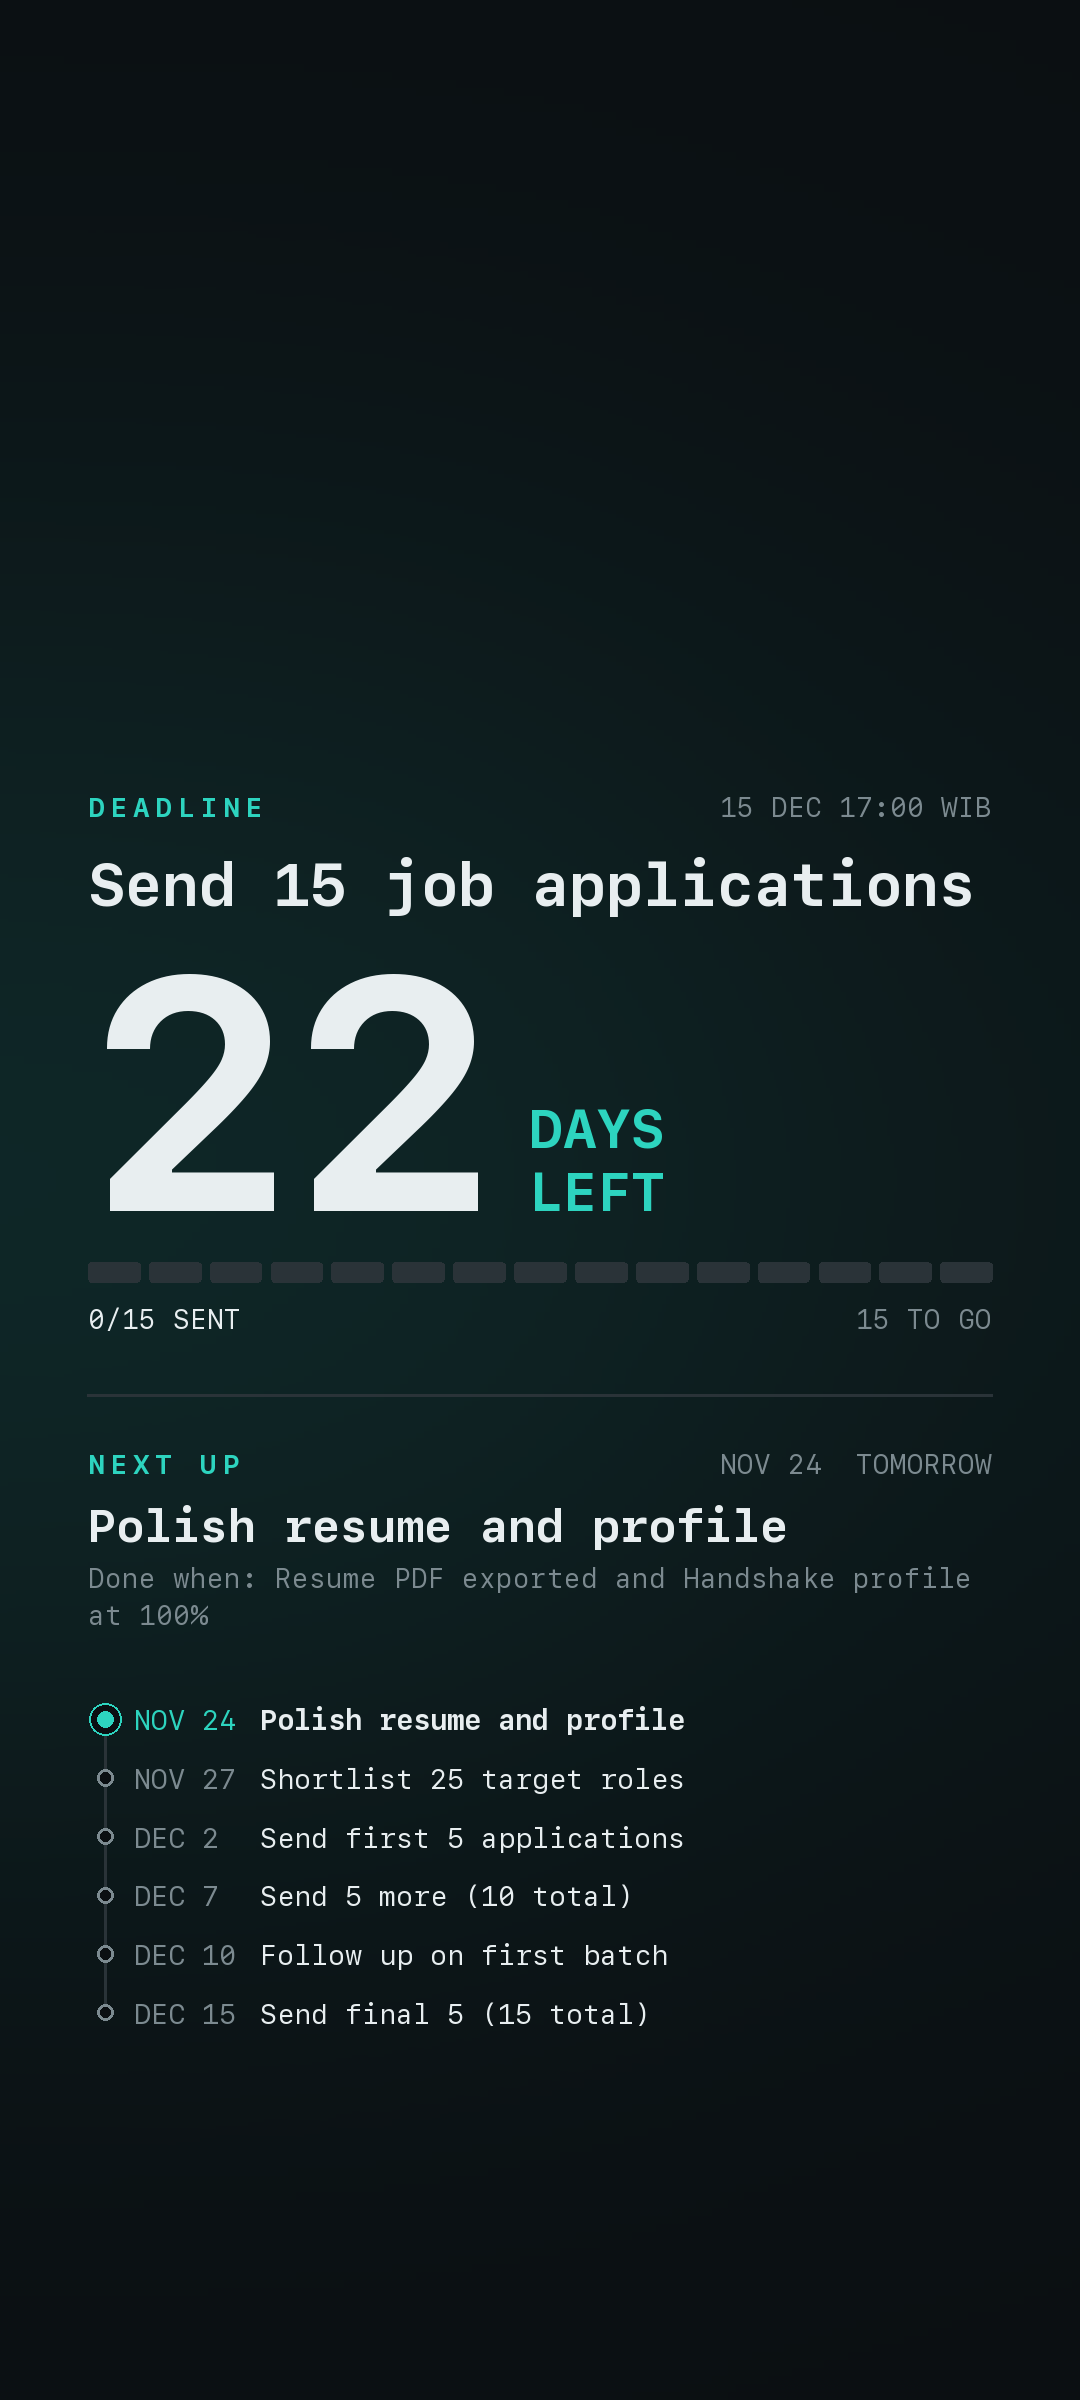
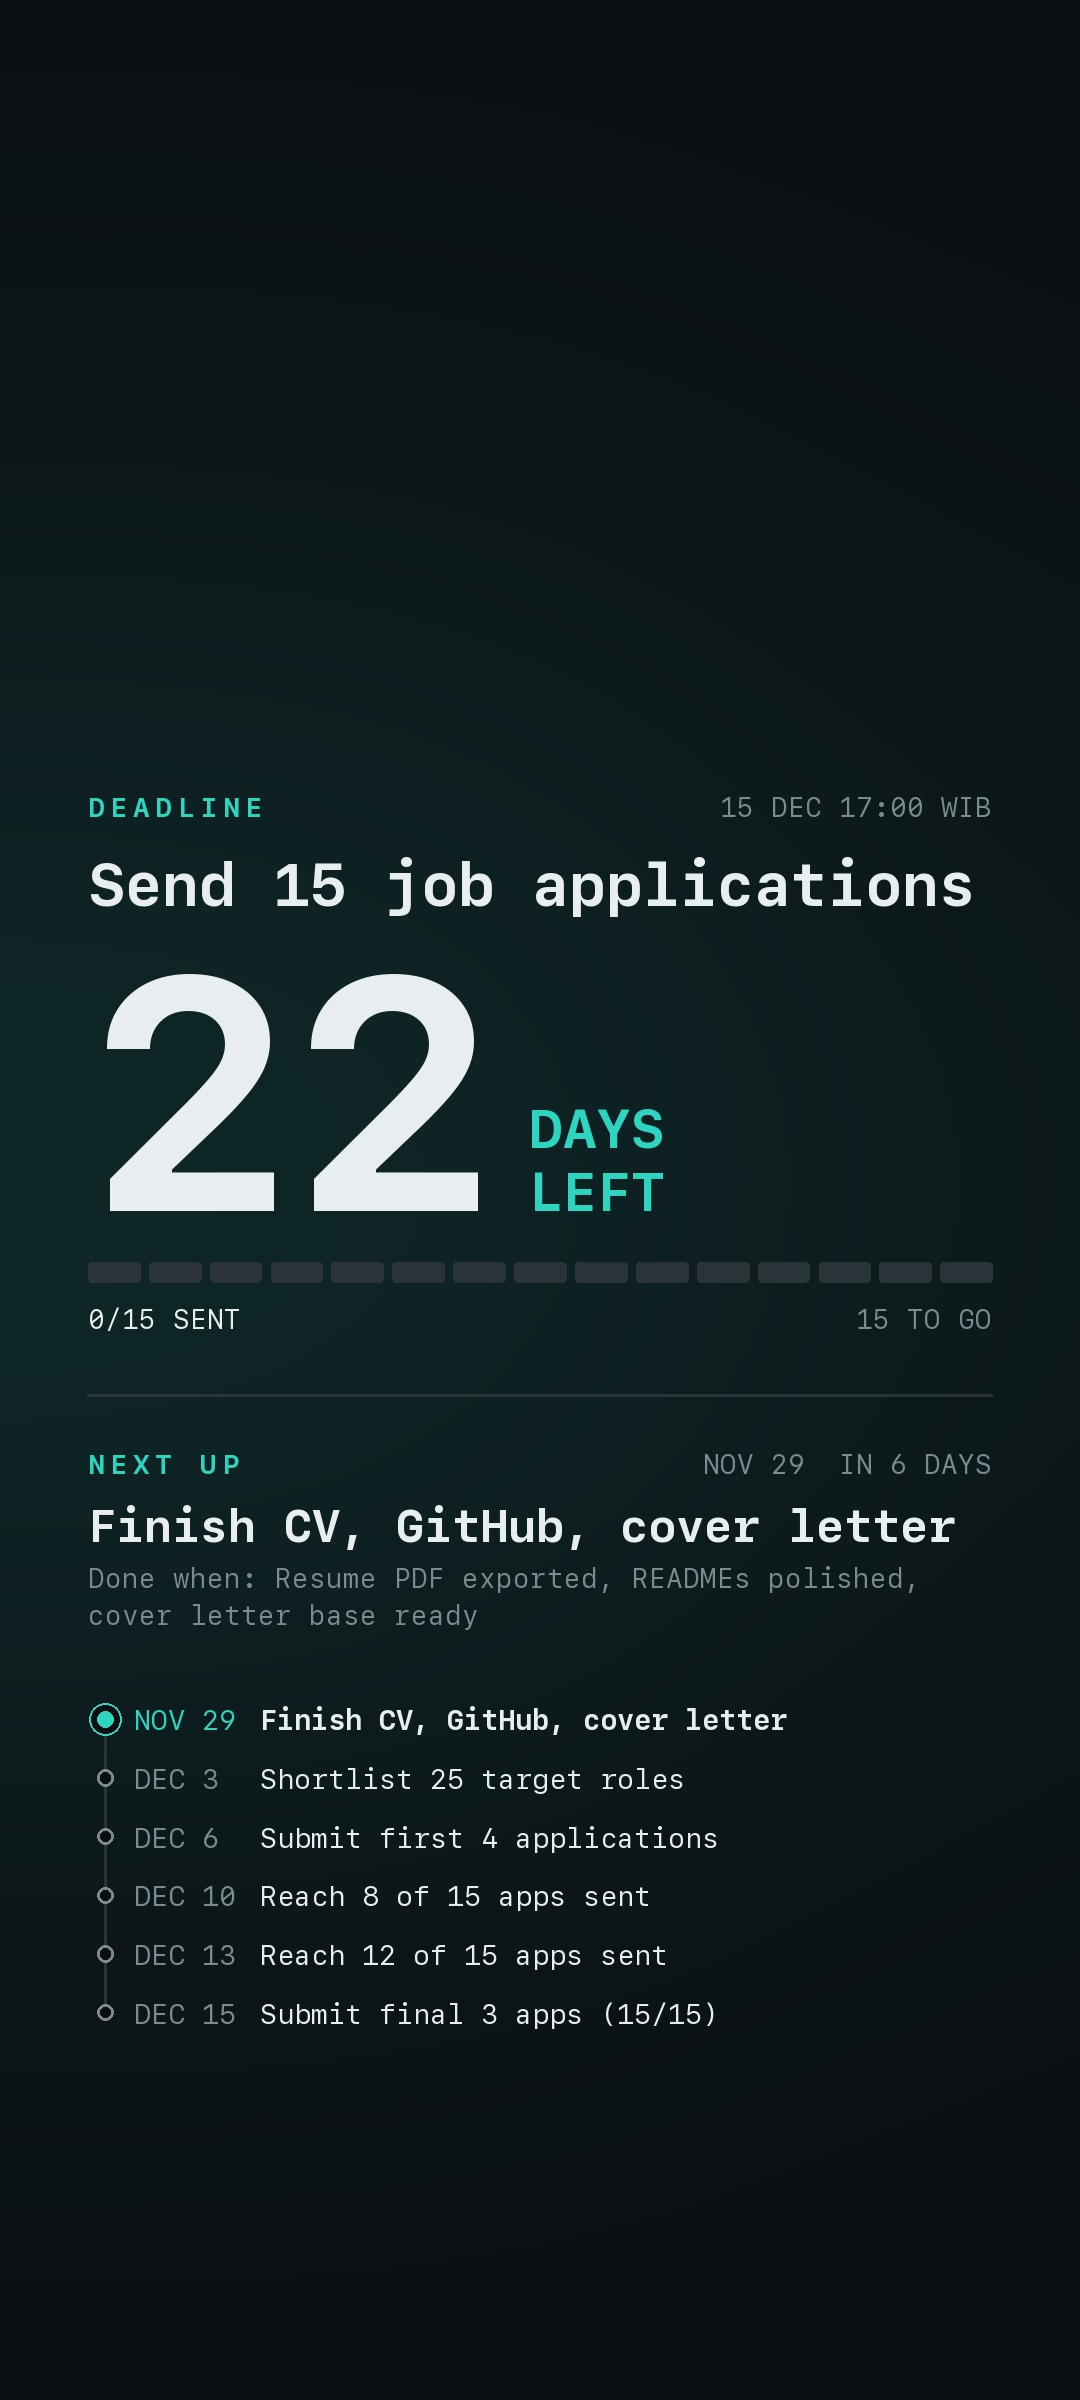
plan: replace milestones with the Gemini-planned schedule
Six milestones from a Gemini planning session: finish resume, GitHub and
cover letter (Nov 29), shortlist 25 roles (Dec 3), then batches of
4, 4, 4 and 3 ending Dec 15 17:00 WIB. Lock screen titles shortened to
fit on one line; plan.md keeps the full done-when checks. Re-rendered
PNGs and reminders.ics.

diff --git a/plan.md b/plan.md
@@ -1,26 +1,41 @@
 # Plan: Send 15 job applications
 
 **Deadline:** Tuesday, 15 December 2026, 17:00 WIB (UTC+7)
-**Start:** Sunday, 22 November 2026 (23 days out)
+**Planned:** Monday, 23 November 2026 (22 days out), with Gemini
 
-Working backward from the deadline: the last 5 applications land on the deadline day, so the
-first 10 must be out a week earlier, which means the target list and resume must be ready in
-the first week. Follow-ups sit between batches so replies can arrive before the deadline.
+## How the plan was made
+I talked the deadline through with Gemini: the state of my resume, portfolio and cover
+letter, how much tailoring each application gets (45 to 60 minutes), how many roles I had
+saved (none), and how much time I have on weekdays versus weekends. Gemini worked backward
+from the deadline into six milestones. Prep comes first so the roughly 15-hour application
+sprint isn't slowed by missing materials, and the batches land on weekends, when I have the
+most time.
+
+## Milestones
 
 | # | Date | T-minus | Action | Done when |
 |---|------|---------|--------|-----------|
-| 1 | Tue 24 Nov | T-21 | Polish resume and Handshake profile | Resume PDF exported and Handshake profile at 100% |
-| 2 | Fri 27 Nov | T-18 | Shortlist 25 target roles | 25 roles in a tracker with links and close dates |
-| 3 | Wed 2 Dec | T-13 | Send first 5 applications | Tracker shows 5 roles marked Applied |
-| 4 | Mon 7 Dec | T-8 | Send 5 more (10 total) | Tracker shows 10 roles marked Applied |
-| 5 | Thu 10 Dec | T-5 | Follow up on first batch | A follow-up note sent for each of the first 5 |
-| 6 | Tue 15 Dec, 17:00 | T-0 | Send final 5 (15 total) | Tracker shows 15 roles marked Applied by 17:00 WIB |
+| 1 | Sun 29 Nov | T-16 | Finish CV, GitHub, cover letter | Resume is exported to a clean PDF, GitHub READMEs (including the countdown project) are polished, and the base cover letter template is ready |
+| 2 | Thu 3 Dec | T-12 | Shortlist 25 target roles | 25 active, high-fit roles are saved in a tracker with links, deadlines and priority rankings |
+| 3 | Sun 6 Dec | T-9 | Submit first 4 applications | The first 4 tailored applications are sent, proving the 45 to 60 minute tailoring workflow holds up |
+| 4 | Thu 10 Dec | T-5 | Reach 8 of 15 apps sent | 8 applications are submitted across the week, the halfway mark, with no lingering drafts |
+| 5 | Sun 13 Dec | T-2 | Reach 12 of 15 apps sent | 12 applications are submitted after a 4-application weekend push, leaving 3 for Mon and Tue |
+| 6 | Tue 15 Dec, 17:00 | T-0 | Submit final 3 apps (15/15) | All 15 applications are submitted, confirmation emails are archived, and the tracker is fully logged |
+
+Batches: 4 + 4 + 4 + 3 = 15.
 
 ## Why 25 roles for 15 applications
-Some roles will close or turn out to be a poor fit once you read the full posting. A 10-role
+Some roles will close or turn out to be a poor fit once I read the full posting. A 10-role
 buffer means a dropped role never stalls a batch.
+
+## Not in this plan
+No dedicated follow-up milestone. Follow-ups on the first applications can fit into the
+Dec 10 to Dec 13 window if replies are slow.
 
 ## Daily habit
 Each morning at 08:00 WIB a calendar reminder shows the days left and the next milestone
 (see `reminders.ics`). After each application, bump `progress.current` in `config.yaml` and
 re-render the lock screen so the progress bar stays honest.
+
+The lock screen shows shortened "done when" checks so they fit on a phone; the full checks
+are above.
